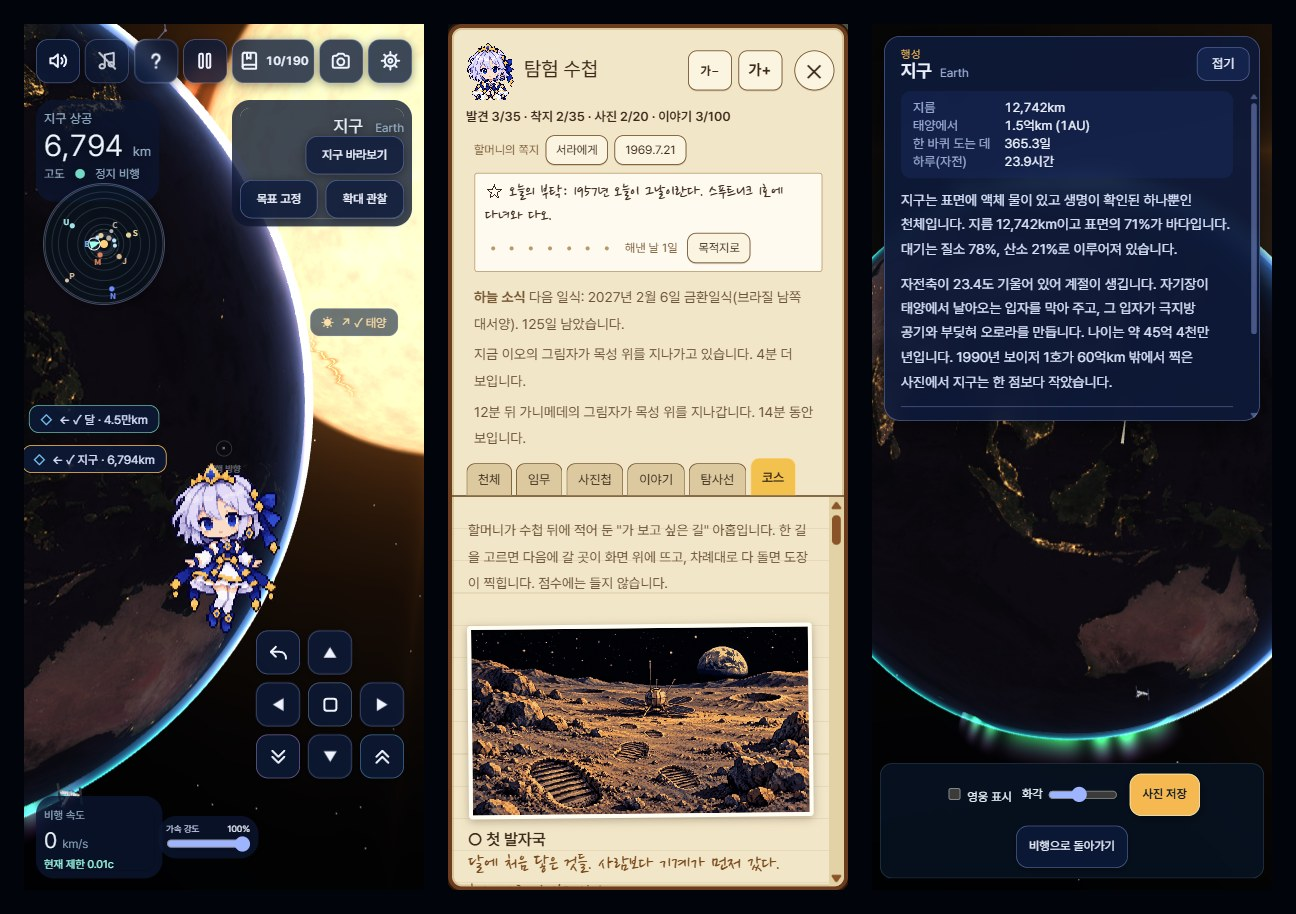
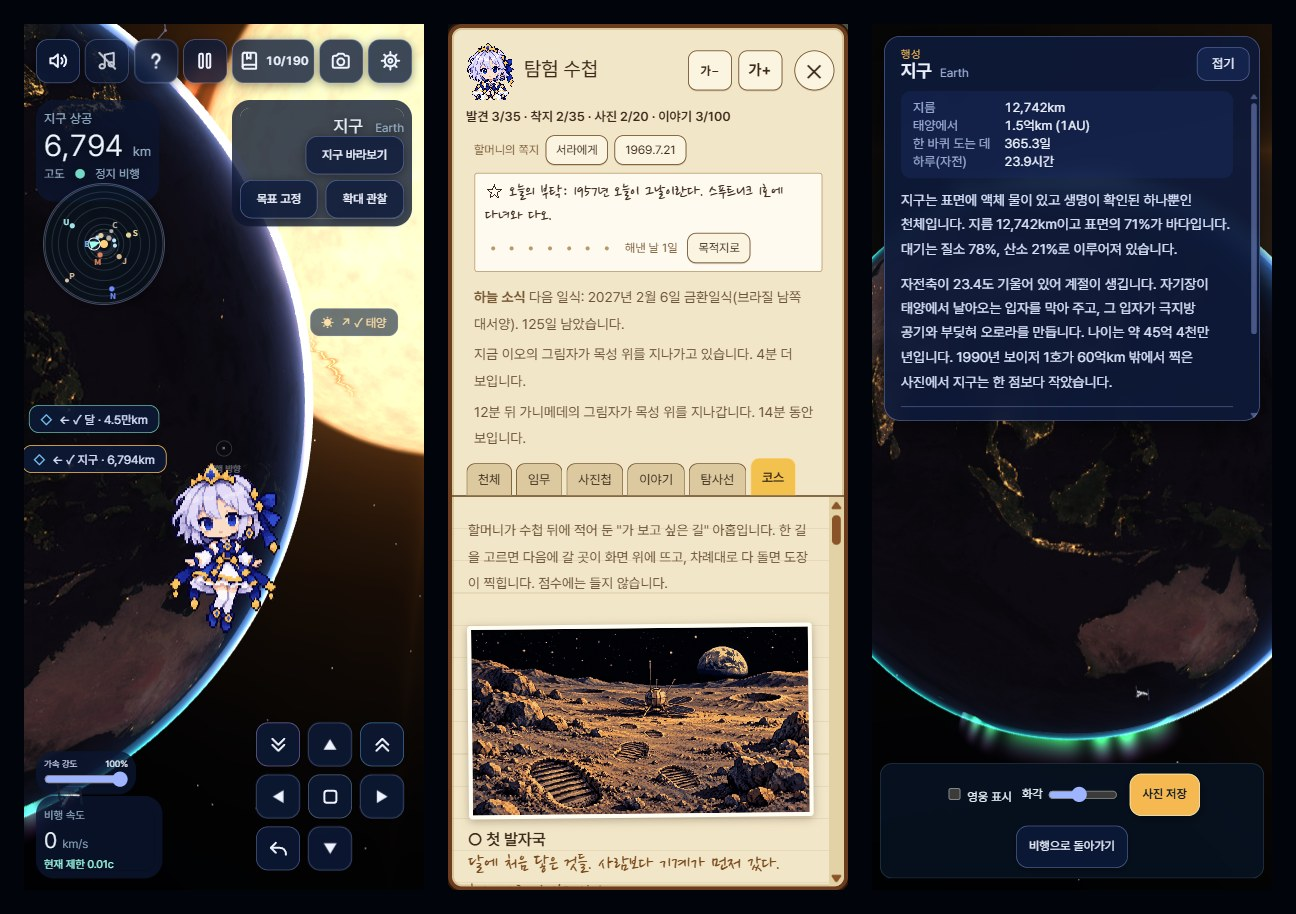
v0.1.96: on a phone the keys stand in the very bottom right corner, forward and reverse in the block's top corners and the rear-view button at its bottom left; the thrust bar goes up over the speed

Changed region(s): [[0.1235, 0.674, 0.3086, 0.9497], [0.0309, 0.8271, 0.1235, 0.8884], [0.1543, 0.6127, 0.1852, 0.6433]]

diff --git a/style.css b/style.css
@@ -2655,7 +2655,7 @@ dialog:where(:not(#journal)) button:hover {
   #brake,
   #flyButton {
     position:absolute;
-    bottom:92px;
+    bottom:0;
     width:68px;
     min-height:44px;
     padding:0;
@@ -3069,7 +3069,7 @@ body.rear.touch #reticle span {
   #rearButton {
     position:absolute;
     right:228px;
-    bottom:92px;
+    bottom:0;
     width:68px;
     min-height:44px;
     padding:0;
@@ -3150,7 +3150,7 @@ body.rear.touch #reticle span {
 
   /* The rear-view button stands in the pad's empty corner, left of its up key (the
      user's drawing of 2026-10-05): the three under the pad then line up with its keys. */
-  #rearButton { right:calc(2 * (var(--tap) + 8px)); bottom:calc(92px + 2 * (var(--tap) + 8px)); }
+  #rearButton { right:calc(2 * (var(--tap) + 8px)); bottom:calc(2 * (var(--tap) + 8px)); }
   #reverseButton { right:calc(2 * (var(--tap) + 8px)); }
   #brake { right:calc(var(--tap) + 8px); }
   #flyButton { right:0; }
@@ -3214,20 +3214,41 @@ body.rear.touch #reticle span {
     --key:var(--tap);
     position:absolute;
     right:0;
-    bottom:calc(92px + var(--tap) + 8px);
+    bottom:calc(var(--tap) + 8px);
   }
 
   /* The stop button and the pad's down key change places (the user, 2026-10-05: "멈춤
      버튼과 아래 버튼을 서로 맞바꿈"): stop is the middle of the cross, down is under it,
      between reverse and forward. The stop button lies over the pad's empty cell. */
   #brake {
-    bottom:calc(92px + var(--tap) + 8px);
+    bottom:calc(var(--tap) + 8px);
     z-index:1;
   }
 
   #slideDown {
     position:relative;
     top:calc(var(--tap) + 8px);
+  }
+
+  /* The keys stand in the very corner, at the foot of the screen (the user, 2026-10-05:
+     "이제 버튼들을 화면 제일 오른쪽 아래로"; they stood 92px up, over the thrust bar's
+     row). Left of them there is room for the speed only, so the small thrust bar goes
+     up over the speed. */
+  footer .throttle {
+    position:absolute;
+    left:0;
+    bottom:calc(100% + 18px);
+  }
+
+  /* Forward and reverse stand in the top corners, the rear-view button in the bottom
+     left one (the user, 2026-10-05: "전진/후진과 뒤 보기 버튼의 위치를 맞바꾸자"). */
+  #reverseButton,
+  #flyButton {
+    bottom:calc(2 * (var(--tap) + 8px));
+  }
+
+  #rearButton {
+    bottom:0;
   }
 }
 
@@ -3278,7 +3299,8 @@ body.rear.touch #reticle span {
 
 /* The thrust bar is very small, on every screen (the user, 2026-10-05: "이거 줄이자. 아주
    작게"; it was 180 → 280px wide and on a phone filled the foot of the screen): 84px, its
-   name and value on one 9px line, a low bar under it. */
+   name and value on one 9px line, a low bar under it. (42px was tried the same night
+   and taken back at once: "원복".) */
 footer .throttle {
   width:84px;
   flex:0 0 auto;

diff --git a/src/core/changes.js b/src/core/changes.js
@@ -3,7 +3,7 @@
 // is heard goes in here; how it was done does not. Add a line at the top of its day
 // when something a player would notice is changed.
 export const CHANGES = [
-  { day: '2026-10-05', text: '휴대전화에서 이동 단추와 비행 단추가 오른쪽 아래에 세 줄로 모였습니다.' },
+  { day: '2026-10-05', text: '휴대전화에서 단추 여덟이 오른쪽 맨 아래 구석에 세 줄로 모였습니다. 가운데가 정지입니다.' },
   { day: '2026-10-05', text: '화면 아래의 가속 강도 막대를 아주 작게 줄였습니다.' },
   { day: '2026-10-05', text: '행성 가까이 가면 그 행성의 위성들도 화면 가장자리에 화살표와 거리로 보입니다.' },
   { day: '2026-10-05', text: '목성 구름에 세로로 난 밝은 틈과 띠 경계의 점선을 없앴습니다.' },

diff --git a/README.md b/README.md
@@ -4,7 +4,7 @@
 
 주소: https://destory1984.github.io/oddity_claude/
 
-![휴대전화 화면 셋. 왼쪽은 지구의 밤 쪽 6,794km 위의 비행 화면으로, 지구 가장자리로 해가 떠오르고 가운데에 캐릭터 서라가 있다. 아래 오른쪽에 단추 여덟이 세 줄로 모여 있고(뒤 보기, 가운데에 정지를 둔 이동 단추 넷, 맨 아래 줄 양 끝에 후진과 전진), 왼쪽에 속도와 작은 가속 막대가 있다. 가운데는 탐험 수첩의 코스 갈래, 오른쪽은 지구를 확대 관찰하며 읽을거리를 띄운 화면이다](docs/screenshot.jpg)
+![휴대전화 화면 셋. 왼쪽은 지구의 밤 쪽 6,794km 위의 비행 화면으로, 지구 가장자리로 해가 떠오르고 가운데에 캐릭터 서라가 있다. 오른쪽 맨 아래 구석에 단추 여덟이 세 줄로 모여 있고(맨 위 줄 양 끝에 후진과 전진, 가운데에 정지를 둔 이동 단추 넷, 맨 아래 줄 왼쪽에 뒤 보기), 왼쪽 아래에 속도와 그 위의 작은 가속 막대가 있다. 가운데는 탐험 수첩의 코스 갈래, 오른쪽은 지구를 확대 관찰하며 읽을거리를 띄운 화면이다](docs/screenshot.jpg)
 
 만든 이유: 2026.9.30 새벽에 코딩을 하다가 문득 "우주멍"을 때리고 싶었다.
 
@@ -70,7 +70,7 @@
 ### 휴대전화
 
 - 화면 드래그: 방향 전환
-- 오른쪽 아래의 단추 여덟(세 줄): 가운데가 정지, 그 위·아래·왼쪽·오른쪽이 이동 단추로 누르는 동안 그쪽으로 미끄러진다. 맨 아래 줄 왼쪽이 후진, 오른쪽이 전진, 맨 위 줄 왼쪽이 뒤 보기다
+- 오른쪽 아래의 단추 여덟(세 줄): 가운데가 정지, 그 위·아래·왼쪽·오른쪽이 이동 단추로 누르는 동안 그쪽으로 미끄러진다. 맨 위 줄 왼쪽이 후진, 오른쪽이 전진, 맨 아래 줄 왼쪽이 뒤 보기다
 - 이름표를 누르면 그것을 고른다. "바라보기"는 그쪽으로 돌고, "목표 고정"은 화면에 붙잡아 두고, "확대 관찰"은 가까이에서 돌려 보며 읽을거리를 띄운다
 - 미니맵을 누르면 큰 지도가 열려 갈 곳을 고르고 순간 이동한다
 - 위쪽 단추 일곱: 효과음, 배경 음악, 도움말, 일시 정지, 수첩, 사진, 설정

diff --git a/docs/Space-Oddity-상세기획서.md b/docs/Space-Oddity-상세기획서.md
@@ -1260,6 +1260,10 @@ build/art-order.sh <작업 폴더> <주문 글.txt> <받을 파일.png> [참고 
 
 이어서 "이제 멈춤 버튼과 아래 버튼을 서로 맞바꿈"(v0.1.95): 정지가 십자의 가운데로, 아래 화살표가 그 밑으로 갔다. 첫 줄 [뒤 보기][▲][빈칸], 둘째 줄 [◀][정지][▶], 셋째 줄 [후진][▼][전진]. 휴대전화에서만 그렇고, 정지 단추는 이동 단추 틀의 빈칸 위에 놓인다(`#brake{z-index:1}`, `#slideDown{top:--tap + 8px}`). 폭 400과 360에서 여덟 단추가 저마다 맨 위에 있어 눌리는 것, 아래 단추를 누르면 움직이고 정지를 누르면 서는 것을 확인했다.
 
+이어서 둘 더(v0.1.96). "이제 버튼들을 화면 제일 오른쪽 아래로": 단추 묶음이 속도 줄 위로 92px 떠 있던 것을 화면 맨 아래로 내렸다. 그러면 묶음 왼쪽에는 속도만 들어가므로(폭 360에서 164px), 작은 가속 막대는 속도 위로 올렸다. "전진/후진과 뒤 보기 버튼의 위치를 맞바꾸자": 첫 줄 [후진][▲][전진], 둘째 줄 [◀][정지][▶], 셋째 줄 [뒤 보기][▼][빈칸]. 뒤 보기를 아래 줄의 왼쪽에 둔 것은 사용자가 자리를 짚지 않아 내가 정한 것이다. 폭 400과 360에서 여덟 단추가 눌리고 전진, 정지, 뒤 보기가 듣는 것을 확인했다.
+
+같은 밤 "가속강도는 지금의 절반으로 줄여"("버튼 얘기하는거야")를 가속 막대의 폭을 42px로 줄이라는 말로 알아듣고 그렇게 했다가, 바로 "원복"이라 해서 84px로 되돌렸다. 무엇을 절반으로 하라는 말이었는지는 다시 물었다.
+
 #### 가속 강도 막대를 아주 작게 (2026-10-05, v0.1.92)
 
 사용자가 막대의 화면을 보내며 "이거 줄이자. 아주 작게"라고 했다. 휴대전화에서 화면 폭에서 130px를 뺀 만큼(폭 400에서 250px), 넓은 화면에서 280px였다. 이제 어느 화면에서나 폭 84px다. 이름과 값은 9px 글씨로 한 줄, 그 아래 막대의 높이는 14px, 넓은 화면의 "0% / 100%" 줄은 뺐다(`footer .throttle`). 휴대전화에서는 손가락으로 끌기에 좁다: 84px에 0 → 100%가 다 들어 있다.
